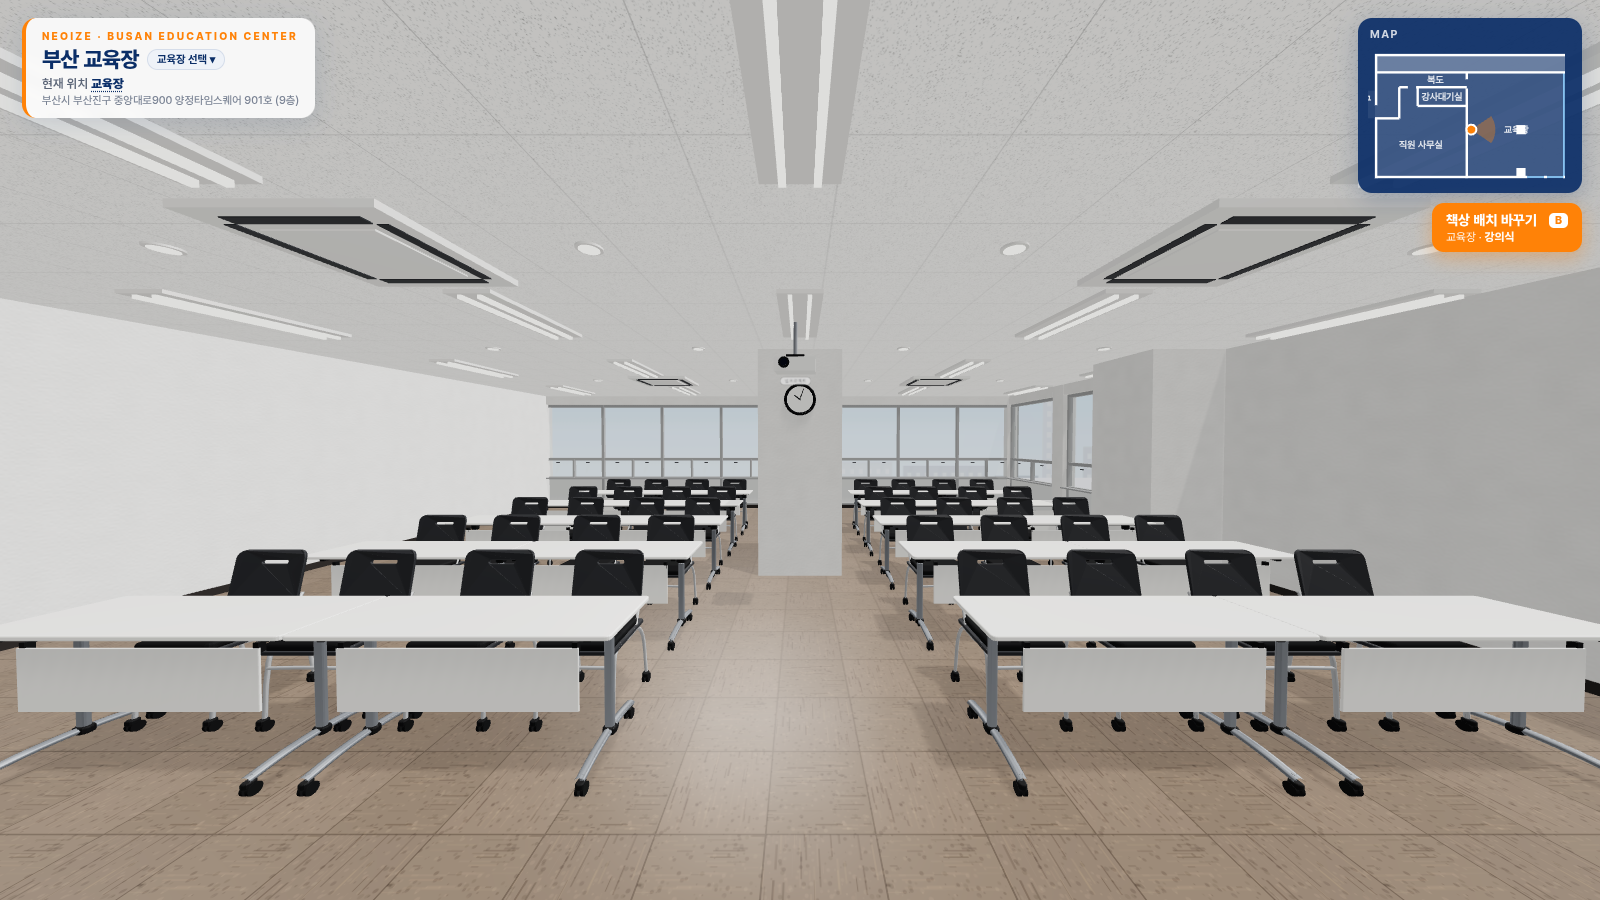
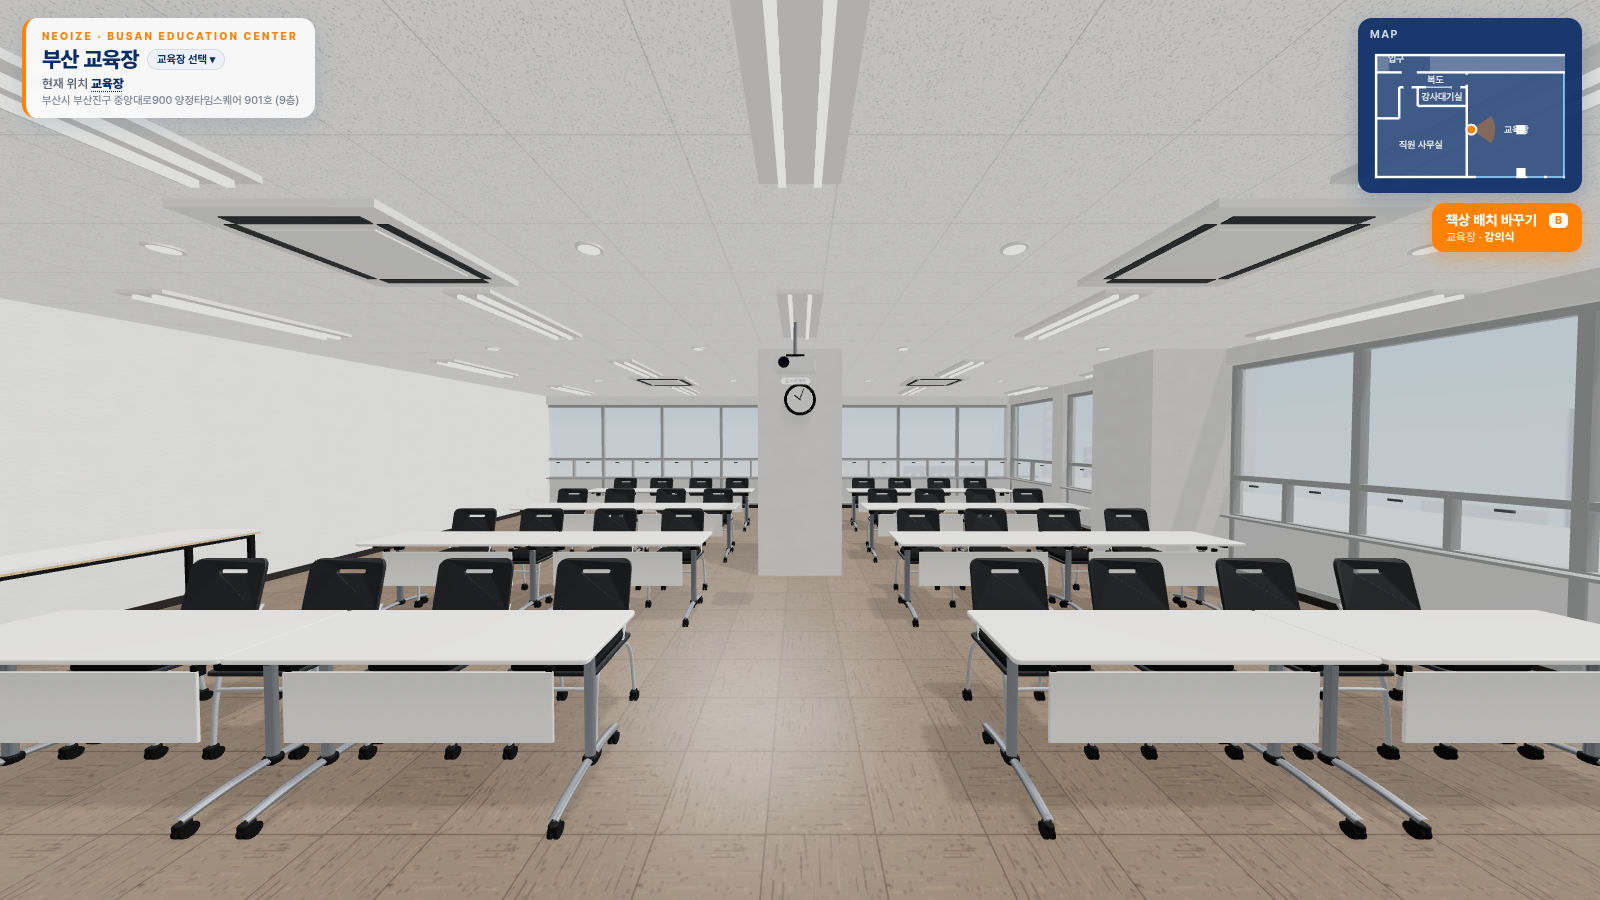
Busan: north entrance restored, restroom door, corridor (blinds glass, 강사대기실 door, TV, table, gold sign), water corner, 4 south windows west of pillar, 4 desk rows (32 seats) with walkable gaps

diff --git a/sites/busan/layout.js b/sites/busan/layout.js
@@ -5,8 +5,8 @@
    기준점(0,0) = 건물 북서쪽. x = 동쪽, z = 남쪽, 단위 m.  rot: 0 = 북쪽, 90 = 서쪽, 180 = 남쪽, -90 = 동쪽.
    안내도 px → m: x = (px-200)*0.03, z = (py-208)*0.03 + 2.0   (북쪽 2m 는 입구 앞 엘리베이터 홀, 추정)
    - 건물(안내도 외곽): 20.7 × 11.52m (+ 북쪽 홀 2m), 천장 2.7m
-   - 입구: 서쪽 벽 화장실 옆(사용자 표시) → 서쪽 복도 북쪽 → 북쪽 복도 → 교육장 문(교육장 서쪽 벽 북쪽 끝)
-   - 교육장: x10.0–20.7, z2.0–13.52. 스크린 = 서쪽 벽, 책상 = 북쪽·남쪽 2구역 × 5줄(4인, 사진 기준), 가운데쯤 흰 사각 기둥 2개(x15.4–16.4)
+   - 출입구: 북쪽 벽 비상구 표시 아래 → 북쪽 복도 → 교육장 문(교육장 서쪽 벽 북쪽 끝) / 서쪽 복도 → 화장실 문(서쪽 벽)
+   - 교육장: x10.0–20.7, z2.0–13.52. 스크린 = 서쪽 벽, 책상 = 북쪽·남쪽 2구역 × 4줄(4인, 줄 사이 통로), 가운데쯤 흰 사각 기둥 2개(x15.4–16.4)
    - 강사대기실 · 직원 사무실 = 출입 불가
    ※ 안내도 비율로 잡은 추정값이에요. 실측값을 받으면 숫자만 바꾸면 됩니다.
    ===================================================================== */
@@ -22,11 +22,11 @@ window.LAYOUT = {
       card:{ photos:[],
              desc:'부산 교육장. 서쪽 벽에 스크린과 양옆 유리 화이트보드, 천장 빔프로젝트가 있고, 동쪽은 연속 창, 남쪽은 동쪽 끝 통창 2칸이에요. 흰 접이식 책상이 북쪽·남쪽 2구역에 5줄씩(줄마다 4인, 40석), 가운데 통로에 흰 사각 기둥이 있어요.',
              services:['스크린','빔프로젝트','유리 화이트보드','냉난방'] } },
-    { id:'entrance', name:'입구', en:'Entrance', small:true, rect:[-2.6, 4.0, 0, 7.0], floor:'floor',
-      label:[-1.3, 5.0], jump:{ x:-2.0, z:5.57, look:[2.5, 4.9] },
-      card:{ photos:[], desc:'9층 입구(서쪽 벽, 화장실 옆 유리문)예요. 엘리베이터에서 내려 문으로 들어와 초록 경로를 따라 서쪽 복도를 북쪽으로, 북쪽 복도를 동쪽으로 가면 교육장 문이에요.' } },
+    { id:'entrance', name:'입구', en:'Entrance', small:true, rect:[1.5, 0, 6.0, 2.0], floor:'floor',
+      label:[2.3, 0.6], jump:{ x:3.73, z:0.45, look:[3.73, 4.0] },
+      card:{ photos:[], desc:'9층 출입구(북쪽 벽 비상구 표시 아래 유리문)예요. 들어와서 초록 경로를 따라 북쪽 복도를 동쪽으로 가면 끝에 교육장 문이 있어요. 화장실은 서쪽 복도 끝 왼쪽 문이에요.' } },
     { id:'corridor', name:'복도', en:'Corridor', small:true, rect:[0, 2.0, 10.0, 3.62], rects:[[0, 3.62, 2.64, 7.01]], floor:'floor',
-      label:[6.6, 2.8], jump:{ x:4.2, z:2.8, look:[10.0, 2.8] }, card:{ photos:[], desc:'입구에서 교육장까지 이어지는 복도예요. 화장실 표시는 입구 앞 홀에 있어요.' } },
+      label:[6.6, 2.8], jump:{ x:4.2, z:2.8, look:[10.0, 2.8] }, card:{ photos:[], desc:'입구에서 교육장까지 이어지는 복도예요. 서쪽 복도 끝 왼쪽(서쪽 벽)에 화장실 문이 있어요.' } },
     { id:'instructor', name:'강사대기실', en:'Instructor Room', small:true, noEntry:true, rect:[4.65, 3.62, 10.0, 5.66], floor:'floor', label:[7.3, 4.64],
       jump:{ x:7.3, z:4.6, look:[10.0, 4.6] }, card:{ photos:[], desc:'복도와 교육장 사이의 강사대기실 (출입 불가).' } },
     { id:'office', name:'직원 사무실', en:'Staff Office', small:true, noEntry:true, rect:[0, 7.01, 10.0, 13.52], rects:[[2.64, 5.66, 10.0, 7.01], [2.64, 3.62, 4.65, 5.66]], floor:'floor', label:[5.0, 9.9],
@@ -34,32 +34,37 @@ window.LAYOUT = {
   ],
 
   start: { mode:'orbit', room:'entrance' },
-  // 입구 밖 엘리베이터 홀(건물 서쪽, 크기 추정): 천장 + 벽
-  outside: [[-2.6, 4.0, 0, 7.0]], outsideWalls: true,
 
-  // 바닥 동선: 서쪽 입구 → 서쪽 복도 북쪽 → 북쪽 복도 동쪽 → 교육장 문(사용자 표시 11/19)
+  // 바닥 동선(안내도 초록): 북쪽 출입구 → 북쪽 복도 동쪽 → 교육장 문 / 북쪽 복도 → 서쪽 복도 → 화장실 문
   routes: [
-    { color:'#2fa84f', points:[[-1.3, 5.57], [1.3, 5.57], [1.3, 2.8], [10.9, 2.8], [11.6, 3.4]] }
+    { color:'#2fa84f', points:[[3.73, 0.8], [3.73, 2.8], [10.9, 2.8], [11.6, 3.4]] },
+    { color:'#2fa84f', opacity:0.55, points:[[3.73, 2.8], [1.3, 2.8], [1.3, 5.57], [0.6, 5.57]] }
   ],
 
   walls: [
     // 바깥벽
     { from:[0, 0], to:[20.7, 0], type:'solid', outer:true },
-    { from:[0, 0], to:[0, 13.52], type:'solid', outer:true,
-      openings:[ { at:5.57, width:1.4, door:'glass', double:true, entrance:true, frame:'white', open:true } ] },   // 사용자 표시(빨간 박스): 서쪽 벽 입구(화장실 옆)
+    { from:[0, 0], to:[0, 13.52], type:'solid', outer:true },   // 서쪽 벽: 화장실 문(표시) = furniture restroom
     // 동쪽 · 남쪽: 연속 창(사진: 흰 스팬드럴 + 작은 젖힘창 띠 + 큰 고정창, 회색 알루미늄)
     { from:[20.7, 2.0], to:[20.7, 13.52], type:'window', outer:true, style:'curtain', bay:1.5 },
     // 남쪽: 사용자 표시(초록 박스) — 기둥 동쪽에 통창 2칸만, 나머지는 흰 벽
-    { from:[0, 13.52], to:[16.57, 13.52], type:'solid', outer:true },
+    { from:[0, 13.52], to:[11.0, 13.52], type:'solid', outer:true },
+    { from:[11.0, 13.52], to:[15.4, 13.52], type:'window', outer:true, style:'curtain', bay:1.1 },   // 사진3(사용자 비교): 남쪽 기둥 서쪽 통창 4칸(폭 추정)
+    { from:[15.4, 13.52], to:[16.57, 13.52], type:'solid', outer:true },
     { from:[16.57, 13.52], to:[18.41, 13.52], type:'window', outer:true, style:'curtain', bay:1.84 },
     { from:[18.41, 13.52], to:[18.74, 13.52], type:'solid', outer:true },
     { from:[18.74, 13.52], to:[20.53, 13.52], type:'window', outer:true, style:'curtain', bay:1.79 },
     { from:[20.53, 13.52], to:[20.7, 13.52], type:'solid', outer:true },
-    // 북쪽 벽: 막힌 벽(비상구 표시만 — 비상구)
-    { from:[0, 2.0], to:[20.7, 2.0], type:'solid', outer:true },
+    // 북쪽 벽: 비상구 표시 아래 출입구(사용자 표시 '출입구') — 유리 양문, 처음부터 열림 (at = 문 시작 x)
+    { from:[0, 2.0], to:[20.7, 2.0], type:'solid', outer:true,
+      openings:[ { at:2.9, width:1.66, door:'glass', double:true, entrance:true, frame:'white', open:true } ] },
     // 북쪽 복도 남쪽 벽 (강사대기실·사무실과 구분)
-    { from:[2.64, 3.62], to:[10.0, 3.62], type:'solid',
-      openings:[ { at:3.58, width:0.9, door:'wood', frame:'white', hinge:'start', swing:-88, locked:true } ] },   // 사용자 표시(빨간 박스): 북쪽 복도 → 직원 사무실 문(출입 불가)
+    // 북쪽 복도 남쪽 벽(사진: 서→동) 직원 사무실 문 · 금색 사인 · 블라인드 유리 3칸 · 강사대기실 문 (at = 문 시작 x)
+    { from:[2.64, 3.62], to:[5.55, 3.62], type:'solid',
+      openings:[ { at:3.1, width:0.9, door:'wood', frame:'white', hinge:'start', swing:-88, locked:true } ] },   // 직원 사무실 문(출입 불가)
+    { from:[5.55, 3.62], to:[8.25, 3.62], type:'glass', style:'blinds', bay:0.9 },                              // 강사대기실 유리 칸막이 + 흰 블라인드
+    { from:[8.25, 3.62], to:[10.0, 3.62], type:'solid',
+      openings:[ { at:8.35, width:0.95, door:'wood', vision:'tall', frame:'white', hinge:'end', swing:88, locked:true } ] },   // 강사대기실 문(세로 긴 반투명 유리, 출입 불가)
     // 서쪽 복도 동쪽 벽 + 직원 사무실 문(추정 위치, 출입 불가)
     { from:[2.64, 3.62], to:[2.64, 7.01], type:'solid' },
     { from:[0, 7.01], to:[2.64, 7.01], type:'solid' },   // 서쪽 복도 끝
@@ -68,12 +73,12 @@ window.LAYOUT = {
     { from:[4.65, 5.66], to:[10.0, 5.66], type:'solid' },
     // 교육장 서쪽(스크린) 벽: 북쪽 끝(z2.25–3.25)에 교육장 문
     { from:[10.0, 2.0], to:[10.0, 13.52], type:'solid',
-      openings:[ { at:2.75, width:1.0, door:'wood', vision:'strip', frame:'white', casing:0.06, hinge:'start', swing:-88 } ] }   // 사용자 표시(빨간 박스): 북쪽 복도 끝 = 교육장 문(E 로 열기)
+      openings:[ { at:2.25, width:1.1, door:'wood', vision:'panel', frame:'white', casing:0.06, hinge:'start', swing:-88 } ] }   // 북쪽 복도 끝 = 교육장 문(큰 반투명 유리, E 로 열기)
   ],
 
   // 북쪽 2m 띠 중 입구 앞 홀(x1.5–6.0)만 걸을 수 있음 / 교육장 가운데쯤 흰 사각 기둥 2개(x15.4–16.4)(안내도 회색 사각형, 사진)
   columns: [
-    { rect:[0, 0, 20.7, 2.0], block:true },
+    { rect:[0, 0, 1.5, 2.0], block:true }, { rect:[6.0, 0, 20.7, 2.0], block:true },
     { rect:[15.4, 7.74, 16.4, 8.74] },     // 사용자 표시(회색 박스): 앞(스크린 쪽)으로 옮김
     { rect:[15.4, 12.42, 16.4, 13.40] }
   ],
@@ -86,7 +91,7 @@ window.LAYOUT = {
       { x:11.6, z:8.24, len:1.2, w:0.3, rot:90, twin:true }, { x:14.1, z:8.24, len:1.2, w:0.3, rot:90, twin:true }, { x:16.6, z:8.24, len:1.2, w:0.3, rot:90, twin:true }, { x:19.1, z:8.24, len:1.2, w:0.3, rot:90, twin:true },
       { x:11.6, z:10.6, len:1.2, w:0.3, rot:90, twin:true }, { x:14.1, z:10.6, len:1.2, w:0.3, rot:90, twin:true }, { x:16.6, z:10.6, len:1.2, w:0.3, rot:90, twin:true }, { x:19.1, z:10.6, len:1.2, w:0.3, rot:90, twin:true },
       { x:11.6, z:12.95, len:1.2, w:0.3, rot:90, twin:true }, { x:14.1, z:12.95, len:1.2, w:0.3, rot:90, twin:true }, { x:16.6, z:12.95, len:1.2, w:0.3, rot:90, twin:true }, { x:19.1, z:12.95, len:1.2, w:0.3, rot:90, twin:true },
-      { x:-1.3, z:5.5, len:1.2, w:0.1, rot:0 },
+      { x:3.73, z:1.0, len:1.2, w:0.1, rot:90 },
       { x:2.0, z:2.8, len:1.2, w:0.1, rot:90 }, { x:5.0, z:2.8, len:1.2, w:0.1, rot:90 }, { x:8.0, z:2.8, len:1.2, w:0.1, rot:90 },
       { x:1.3, z:5.2, len:1.2, w:0.1, rot:0 },
       { x:7.3, z:4.64, len:1.2, w:0.1, rot:90 },
@@ -105,8 +110,8 @@ window.LAYOUT = {
     start: 0,
     list: [
       { id:'lecture', name:'강의식', items:[
-        // 사진 1·2·3 기준: 구역마다 5줄, 줄마다 1.5m 테이블 2개(2인용 플립탑, 크기 추정 1.5×0.5m) = 40석. 줄 간격 약 1.3m, 동쪽 창가(x≈18.4–20.7)는 빈 바닥
-        { type:'array', xs:[12.6, 13.9, 15.2, 16.5, 17.8], zs:[5.13, 6.63, 9.86, 11.36],
+        // 사용자 요청(11/19): 구역마다 4줄, 줄마다 1.5m 테이블 2개(2인용 플립탑, 크기 추정 1.5×0.5m) = 32석. 줄 간격 1.9m → 의자 뒤 ~0.9m 걸어서 지나갈 수 있음
+        { type:'array', xs:[12.4, 14.3, 16.2, 18.1], zs:[5.13, 6.63, 9.86, 11.36],
           item:{ type:'deskPair', w:1.5, d:0.5, chairs:2, style:'training', tag:false, chairStyle:'nest', tuck:0.12, rot:90 } }
       ] },
       { id:'group', name:'조별', items:[
@@ -121,6 +126,8 @@ window.LAYOUT = {
       lines:['연결 케이블: (예: HDMI) — 수정 필요', '리모컨 위치: (예: 강사 책상) — 수정 필요'] },
     { id:'bs_screen', name:'스크린', room:'교육장', box:[10.1, 6.75, 10.4, 9.25, 1.0, 2.7], label:true, labelAt:[10.25, 2.62, 8.0], lines:['스크린 내리기/올리기: (예: 벽 스위치) — 수정 필요'] },
     { id:'bs_board', name:'유리 화이트보드', room:'교육장', boxes:[[10.05, 5.4, 10.25, 6.8, 0.8, 2.2], [10.05, 9.3, 10.25, 11.8, 0.8, 2.2]], lines:['마커·지우개: (예: 레지 위 비치) — 수정 필요'] },
+    { id:'bs_water', name:'정수기', room:'교육장', box:[11.85, 2.13, 12.25, 2.6, 0, 1.4], label:true, labelAt:[12.05, 1.6, 2.4], lines:['사용 방법: (예: 냉수·온수 버튼) — 수정 필요'] },
+    { id:'bs_tv', name:'TV', room:'복도', box:[6.95, 2.2, 8.25, 2.6, 0.6, 1.7], label:true, labelAt:[7.6, 1.85, 2.45], lines:['용도: (예: 안내 화면) — 수정 필요'] },
     { id:'bs_ac', name:'에어컨', room:'교육장', boxes:[[12.37, 5.37, 13.33, 6.33, 2.5, 2.75], [12.37, 10.12, 13.33, 11.08, 2.5, 2.75], [17.37, 5.37, 18.33, 6.33, 2.5, 2.75], [17.37, 10.12, 18.33, 11.08, 2.5, 2.75]], lines:['리모컨/조작: (예: 벽 컨트롤러) — 수정 필요'] }
   ],
 
@@ -134,15 +141,30 @@ window.LAYOUT = {
     { type:'clock', x:15.39, z:8.24, rot:90, y:2.1 },             // 가운데 기둥 서쪽 면 벽시계(사진2)
 
     /* --- 비상구 유도등 + 소화기 (안내도) --- */
-    { type:'exitSign', x:3.73, z:2.14, y:2.3, rot:180 },          // 북쪽 벽 비상구 표시(안내도)
-    { type:'exitSign', x:10.08, z:2.75, y:2.35, rot:-90 },          // 교육장 문 위(사진1)
+    { type:'exitSign', x:3.73, z:2.14, y:2.3, rot:180 },          // 출입구 위 비상구 표시(안내도)
+    { type:'exitSign', x:10.08, z:2.8, y:2.35, rot:-90 },           // 교육장 문 위(사진1)
     { type:'extinguisher', x:4.75, z:2.3 },
-    { type:'extinguisher', x:11.9, z:2.3 },
+    { type:'extinguisher', x:11.2, z:2.25 },
     { type:'extinguisher', x:10.2, z:13.2 },
     { type:'extinguisher', x:4.95, z:3.95 },
 
     /* --- 입구 앞 홀(추정): 엘리베이터 / 서쪽 복도 끝 화장실 --- */
-    { type:'elevator', x:-2.54, z:5.5, rot:-90, floor:9 },        // 서쪽 홀 엘리베이터(추정)
-    { type:'restroom', x:-1.3, z:4.04, rot:180 }                  // 화장실 표시: 입구 옆 홀 북쪽 벽
+    { type:'elevator', x:3.73, z:0.06, rot:180, floor:9 },        // 출입구 앞 엘리베이터 홀(추정)
+    { type:'restroom', x:0.27, z:5.57, rot:-90 },                 // 화장실 문(서쪽 벽, 사용자 표시) — 닫힌 문 + 표시
+
+    /* --- 북쪽 복도(사진): 북쪽 벽 TV · 테이블, 남쪽 벽 금색 사인 --- */
+    { type:'mobileTv', x:7.6, z:2.3, rot:180 },                                   // 이동형 TV(약 55형, 검정 스탠드)
+    { type:'cafeTable', x:9.05, z:2.33, w:1.1, d:0.6, sanitizer:true },              // 흰 상판 테이블 + 손소독제
+    { type:'goldSign', x:5.0, z:3.54, w:0.9 },                                     // 금색 사인 패널(로고)
+
+    /* --- 교육장 북서쪽(사진): 문 오른쪽 북쪽 벽 따라 휴지통 · 소화기 · 정수기 · 회색 휴지통 · 테이블 --- */
+    { type:'bin', x:10.55, z:2.3, square:true, w:0.26, h:0.42 },
+    { type:'waterDispenser', x:12.05, z:2.38, rot:180 },
+    { type:'bin', x:12.55, z:2.3, r:0.15, h:0.33, color:'fabricGray' },
+    { type:'bin', x:12.85, z:2.45, r:0.15, h:0.33, color:'fabricGray' },
+    { type:'cafeTable', x:13.9, z:2.5, w:1.4, d:0.7 },
+    { type:'speaker', x:10.75, z:2.12, rot:180, color:'white', w:0.22, h:0.3, d:0.16, top:2.55 },   // 흰 벽 스피커(사진)
+    { type:'wallPlate', x:10.08, z:3.5, rot:-90, w:0.21, h:0.3, y:1.3 },                          // 문 옆 안내문(사진, 교육장 안쪽)
+    { type:'wallPlate', x:9.92, z:3.5, rot:90, w:0.21, h:0.3, y:1.3 }                             // 문 옆 안내문(복도 쪽)
   ]
 };

diff --git a/sites/sites.js b/sites/sites.js
@@ -11,5 +11,5 @@ window.SITES = [
     title:'대전 교육장', brand:'NEOIZE · DAEJEON EDUCATION CENTER', addr:'대전시 서구 둔산서로 59 고운손빌딩 1002호 (10층)', desc:'10층 엘리베이터 바로 옆 출입문 · L자 교육장 · 책상 4줄(32석) · 전동 스크린 · 정수기·제빙기·커피머신', thumb:'shot_dj_plan.png' },
   { id:'busan',   name:'부산 교육장', sub:'Busan Education Center', ready:true,
     title:'부산 교육장', brand:'NEOIZE · BUSAN EDUCATION CENTER', addr:'부산시 부산진구 중앙대로900 양정타임스퀘어 901호 (9층)',
-    desc:'9층 · 교육장 책상 2구역 × 5줄(40석) · 스크린 · 유리 화이트보드 · 빔프로젝트 · 동쪽 연속 창 · 남쪽 통창 2칸', thumb:'shot_bs_plan.png' }
+    desc:'9층 · 교육장 책상 2구역 × 4줄(32석) · 스크린 · 유리 화이트보드 · 빔프로젝트 · 동쪽 연속 창 · 남쪽 통창 6칸', thumb:'shot_bs_plan.png' }
 ];

diff --git a/index.html b/index.html
@@ -178,10 +178,10 @@ a.pk-card:hover{transform:translateY(-4px);box-shadow:0 16px 36px rgba(11,46,103
   </div>
 </aside>
 <!-- 교육장 목록: sites/sites.js / 교육장별 공간 설정: sites/<id>/layout.js (치수·가구 배치는 거기서 수정) -->
-<script src="sites/sites.js?v=11192300"></script>
+<script src="sites/sites.js?v=11192330"></script>
 <script type="importmap">{"imports":{"three":"./lib/three.module.min.js","three/addons/":"./lib/addons/"}}</script>
 <script type="module">
-const V = "11192300", SITES = window.SITES || [], q = new URLSearchParams(location.search);
+const V = "11192330", SITES = window.SITES || [], q = new URLSearchParams(location.search);
 let id = q.get('site');
 if (!id && [...q.keys()].length) id = 'seoul';            // 예전 링크(?room=… 등)는 서울 구로로
 const S = SITES.find((s) => s.id === id);

diff --git a/수정방법.md b/수정방법.md
@@ -322,12 +322,13 @@ ceiling: { panels:[ { rect:[x1,z1,x2,z2], nx:2, nz:3 } ],  aircon:[[x,z], ...] }
 - 책상: 1.8×0.45m 흰 접이식(앞 가림판 · 회색 다리 · 검정 바퀴), 4줄 × 4개, 의자 `chairStyle:'shell'`(검정 쉘 + 메쉬 등받이 + 크롬 바퀴), 책상 서쪽에 붙여(`tuck`) 스크린(동쪽)을 봄.
 
 ## 부산 교육장 (sites/busan/layout.js)
-- (11/19 사용자 표시 반영) 입구 = 서쪽 바깥벽 유리 양문(z5.57) + 건물 밖 엘리베이터 홀 `outside:[[-2.6,4.0,0,7.0]]`, 북쪽 벽은 막힘(비상구 표시만). 교육장 문 = 교육장 서쪽 벽 북쪽 끝(at:2.75, E 로 열기). 직원 사무실 문 = 북쪽 복도 남쪽 벽 at:3.58(출입 불가). 문 `at` 은 벽 방향의 절대 좌표예요.
-- 기둥 2개 x15.4–16.4 (시계·빔프로젝트도 같이 옮김). 남쪽 벽은 통창 2칸(x16.57–18.41, 18.74–20.53)만, 나머지는 벽. 바닥색 floorColor '#8a7a6b'.
+- 문 5개: 북쪽 벽 출입구(유리 양문 at:2.9) · 서쪽 벽 화장실 문(`restroom` 빌더, 닫힘) · 직원 사무실 문(복도 남쪽 벽 at:3.1, 잠김) · 강사대기실 문(at:8.35, `vision:'tall'`, 잠김) · 교육장 문(교육장 서쪽 벽 at:2.2, `vision:'panel'`, E 로 열기). 문 `at` = 벽 방향 절대 좌표의 문 시작점(가운데 아님).
+- 강사대기실 복도 벽 x5.55–8.25 = `style:'blinds'`(흰 프레임 유리 + 흰 블라인드). 금색 사인 `goldSign`, 복도 TV `mobileTv`, 테이블 `cafeTable`(sanitizer), 교육장 북서쪽 정수기 `waterDispenser` + 휴지통(`bin` square / color) + 테이블.
+- 기둥 2개 x15.4–16.4 (시계·빔프로젝트도 같이 옮김). 남쪽 벽 통창 = 기둥 서쪽 4칸(x11.0–15.4, 사진3) + 동쪽 2칸(x16.57–18.41, 18.74–20.53), 나머지는 벽. 바닥색 floorColor '#8a7a6b'.
 - 공식 안내도(9F) 기준 축척 0.03 m/px (4인책상 한 줄 3.6m = 약 120px). px → m: x=(px-200)*0.03, z=(py-208)*0.03+2.0 (북쪽 2m = 입구 앞 엘리베이터 홀, 추정).
 - 입구 = 원래 북쪽 벽 비상구 표시 아래 유리 양문(x2.9–4.56). 초록 경로: 입구 → 북쪽 복도 동쪽 → 교육장 / 서쪽 복도 → 화장실.
 - 교육장 x10.0–20.7, z2.0–13.52: 서쪽 벽 = 스크린(z8.0, 2.4m) + 유리 화이트보드 2개 + 강사대기실 흰 문(출입 불가). 동쪽·남쪽 = `style:'curtain'` 연속 창(spandrel / band / head / bay 로 조절).
-- 책상: deskLayouts 의 xs(5줄, 사진 기준 40석) × zs(북쪽 2개·남쪽 2개). 테이블 `style:'training'`(흰 플립탑 1.5×0.5m, T다리+쌍바퀴, 가림판), 의자 `chairStyle:'nest'`(짙은 회색 일체형 쉘+손잡이 홈, 검정 방석, 흰 튜브 썰매 프레임, 바퀴 4개). 줄을 늘리거나 줄이려면 xs 에 x 좌표를 더하거나 빼고 sites.js 의 좌석 수도 고치세요. 흰 사각 기둥 2개 = columns.
+- 책상: deskLayouts 의 xs(4줄, 32석, 줄 간격 1.9m = 의자 뒤 통로 약 0.9m) × zs(북쪽 2개·남쪽 2개). 테이블 `style:'training'`(흰 플립탑 1.5×0.5m, T다리+쌍바퀴, 가림판), 의자 `chairStyle:'nest'`(짙은 회색 일체형 쉘+손잡이 홈, 검정 방석, 흰 튜브 썰매 프레임, 바퀴 4개). 줄을 늘리거나 줄이려면 xs 에 x 좌표를 더하거나 빼고 sites.js 의 좌석 수도 고치세요. 흰 사각 기둥 2개 = columns.
 - 빔프로젝트: ceiling.projectors 의 x/z (지금 16.2, 8.2 = 시계 기둥 서쪽 약 2m, 사진으로 추정) + equipment 의 bs_projector box 도 같이 옮기세요.
 - 천장: `twin:true` 2등용 형광등 5줄 × 4개, downlights, 에어컨 4대(추정), 빔프로젝트 x14.6.
 - 바닥: building 의 `floorPattern:'tile'`(짙은 갈색 광택 타일, floorColor·floorTile 로 조절).
